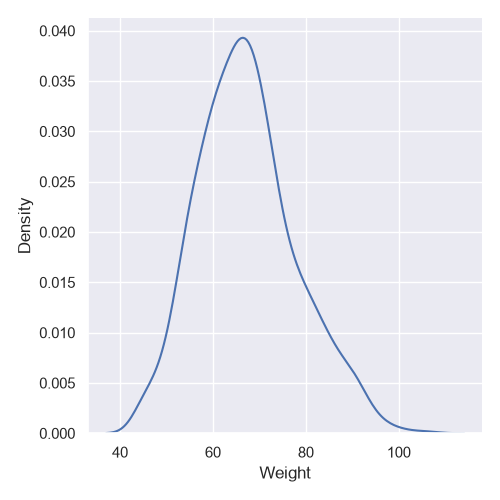
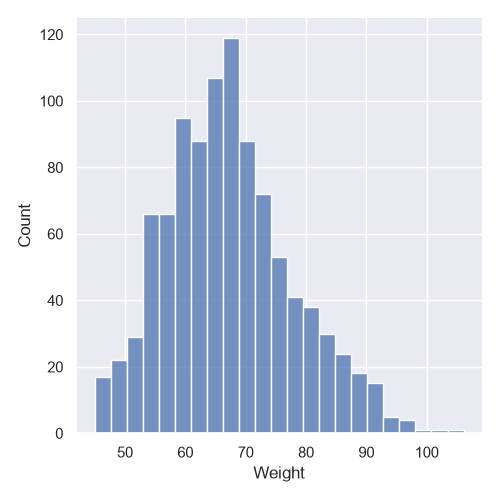
lab4 Issue 2 fix

diff --git a/lab04.py b/lab04.py
@@ -12,5 +12,5 @@ plt.show()
 
 # Задание 2. Построить гистограмму признака вес.
 
-sns.displot(data=df, x="Weight",kind ="kde")
+sns.displot(data=df, x="Weight")
 plt.show()
